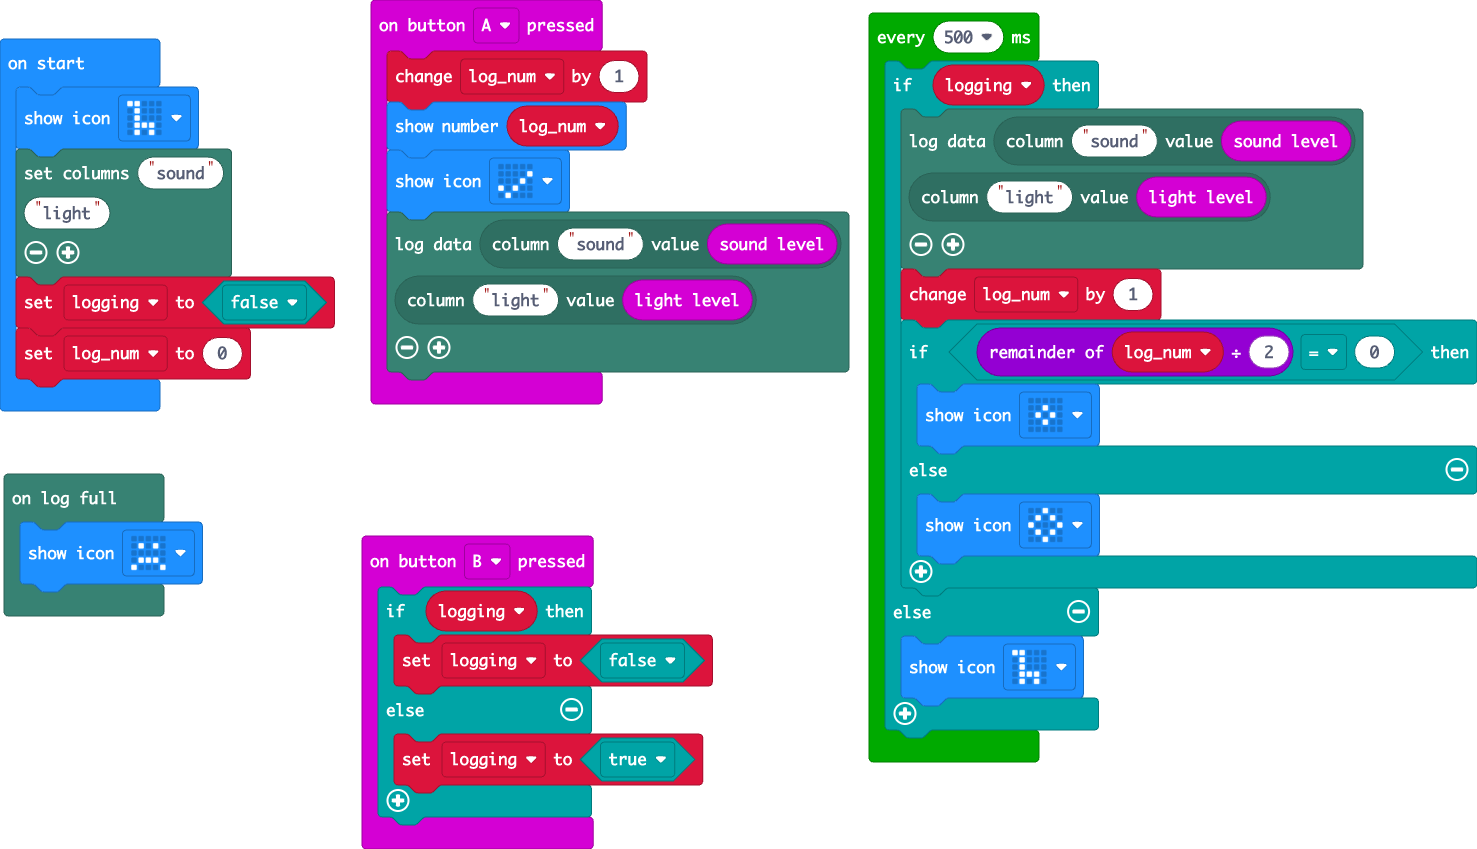
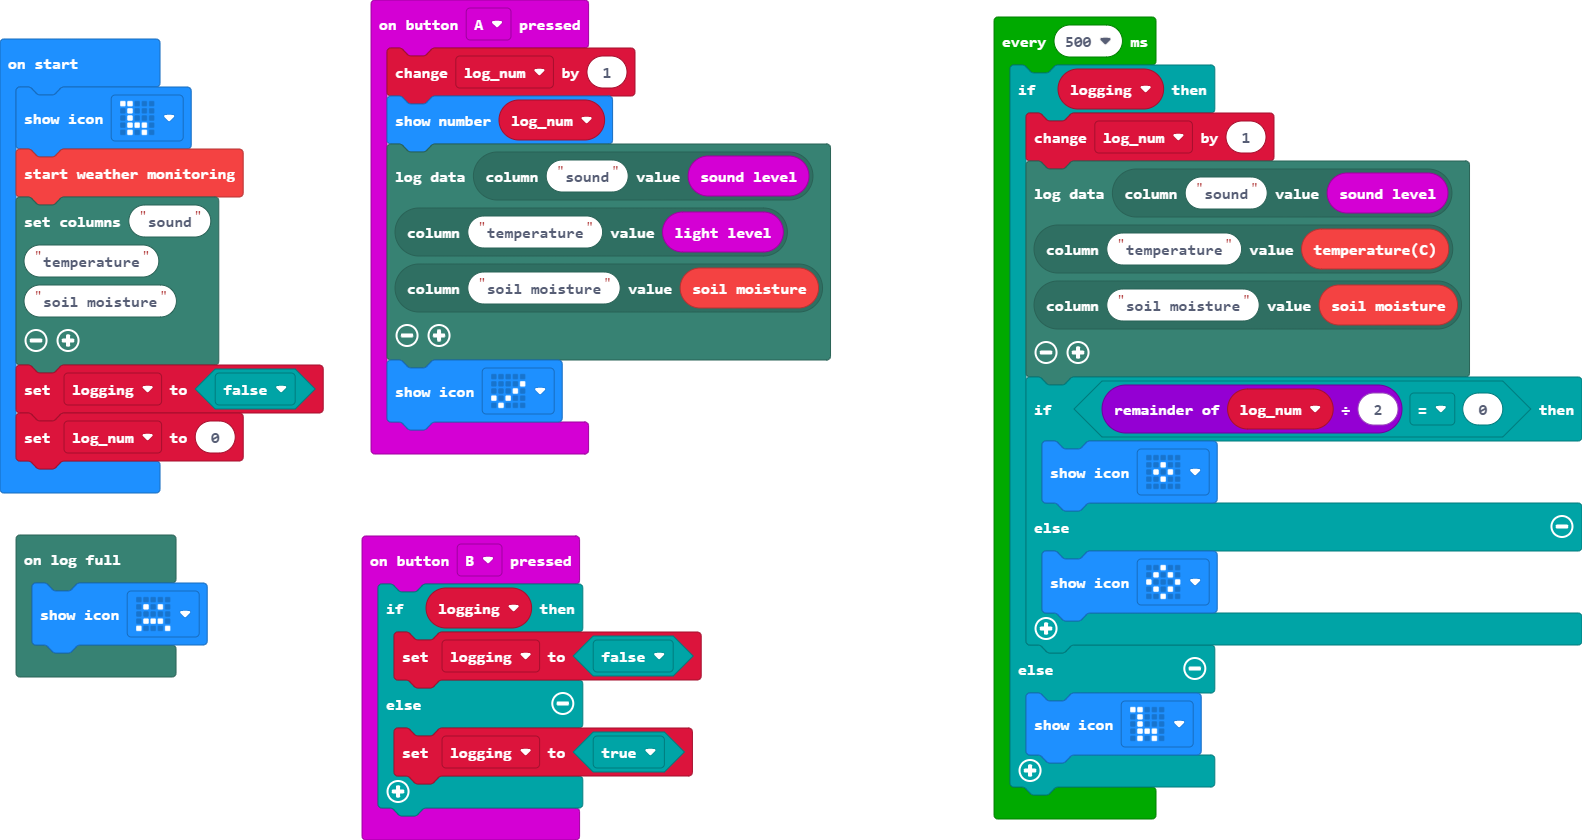
Update pxt.json, main.blocks, main.ts

diff --git a/main.ts b/main.ts
@@ -4,11 +4,12 @@ datalogger.onLogFull(function () {
 input.onButtonPressed(Button.A, function () {
     log_num += 1
     basic.showNumber(log_num)
-    basic.showIcon(IconNames.Yes)
     datalogger.log(
     datalogger.createCV("sound", input.soundLevel()),
-    datalogger.createCV("light", input.lightLevel())
+    datalogger.createCV("temperature", input.lightLevel()),
+    datalogger.createCV("soil moisture", weatherbit.soilMoisture())
     )
+    basic.showIcon(IconNames.Yes)
 })
 input.onButtonPressed(Button.B, function () {
     if (logging) {
@@ -20,19 +21,22 @@ input.onButtonPressed(Button.B, function () {
 let log_num = 0
 let logging = false
 basic.showIcon(IconNames.Giraffe)
+weatherbit.startWeatherMonitoring()
 datalogger.setColumnTitles(
 "sound",
-"light"
+"temperature",
+"soil moisture"
 )
 logging = false
 log_num = 0
 loops.everyInterval(500, function () {
     if (logging) {
+        log_num += 1
         datalogger.log(
         datalogger.createCV("sound", input.soundLevel()),
-        datalogger.createCV("light", input.lightLevel())
+        datalogger.createCV("temperature", weatherbit.temperature()),
+        datalogger.createCV("soil moisture", weatherbit.soilMoisture())
         )
-        log_num += 1
         if (log_num % 2 == 0) {
             basic.showIcon(IconNames.SmallDiamond)
         } else {
